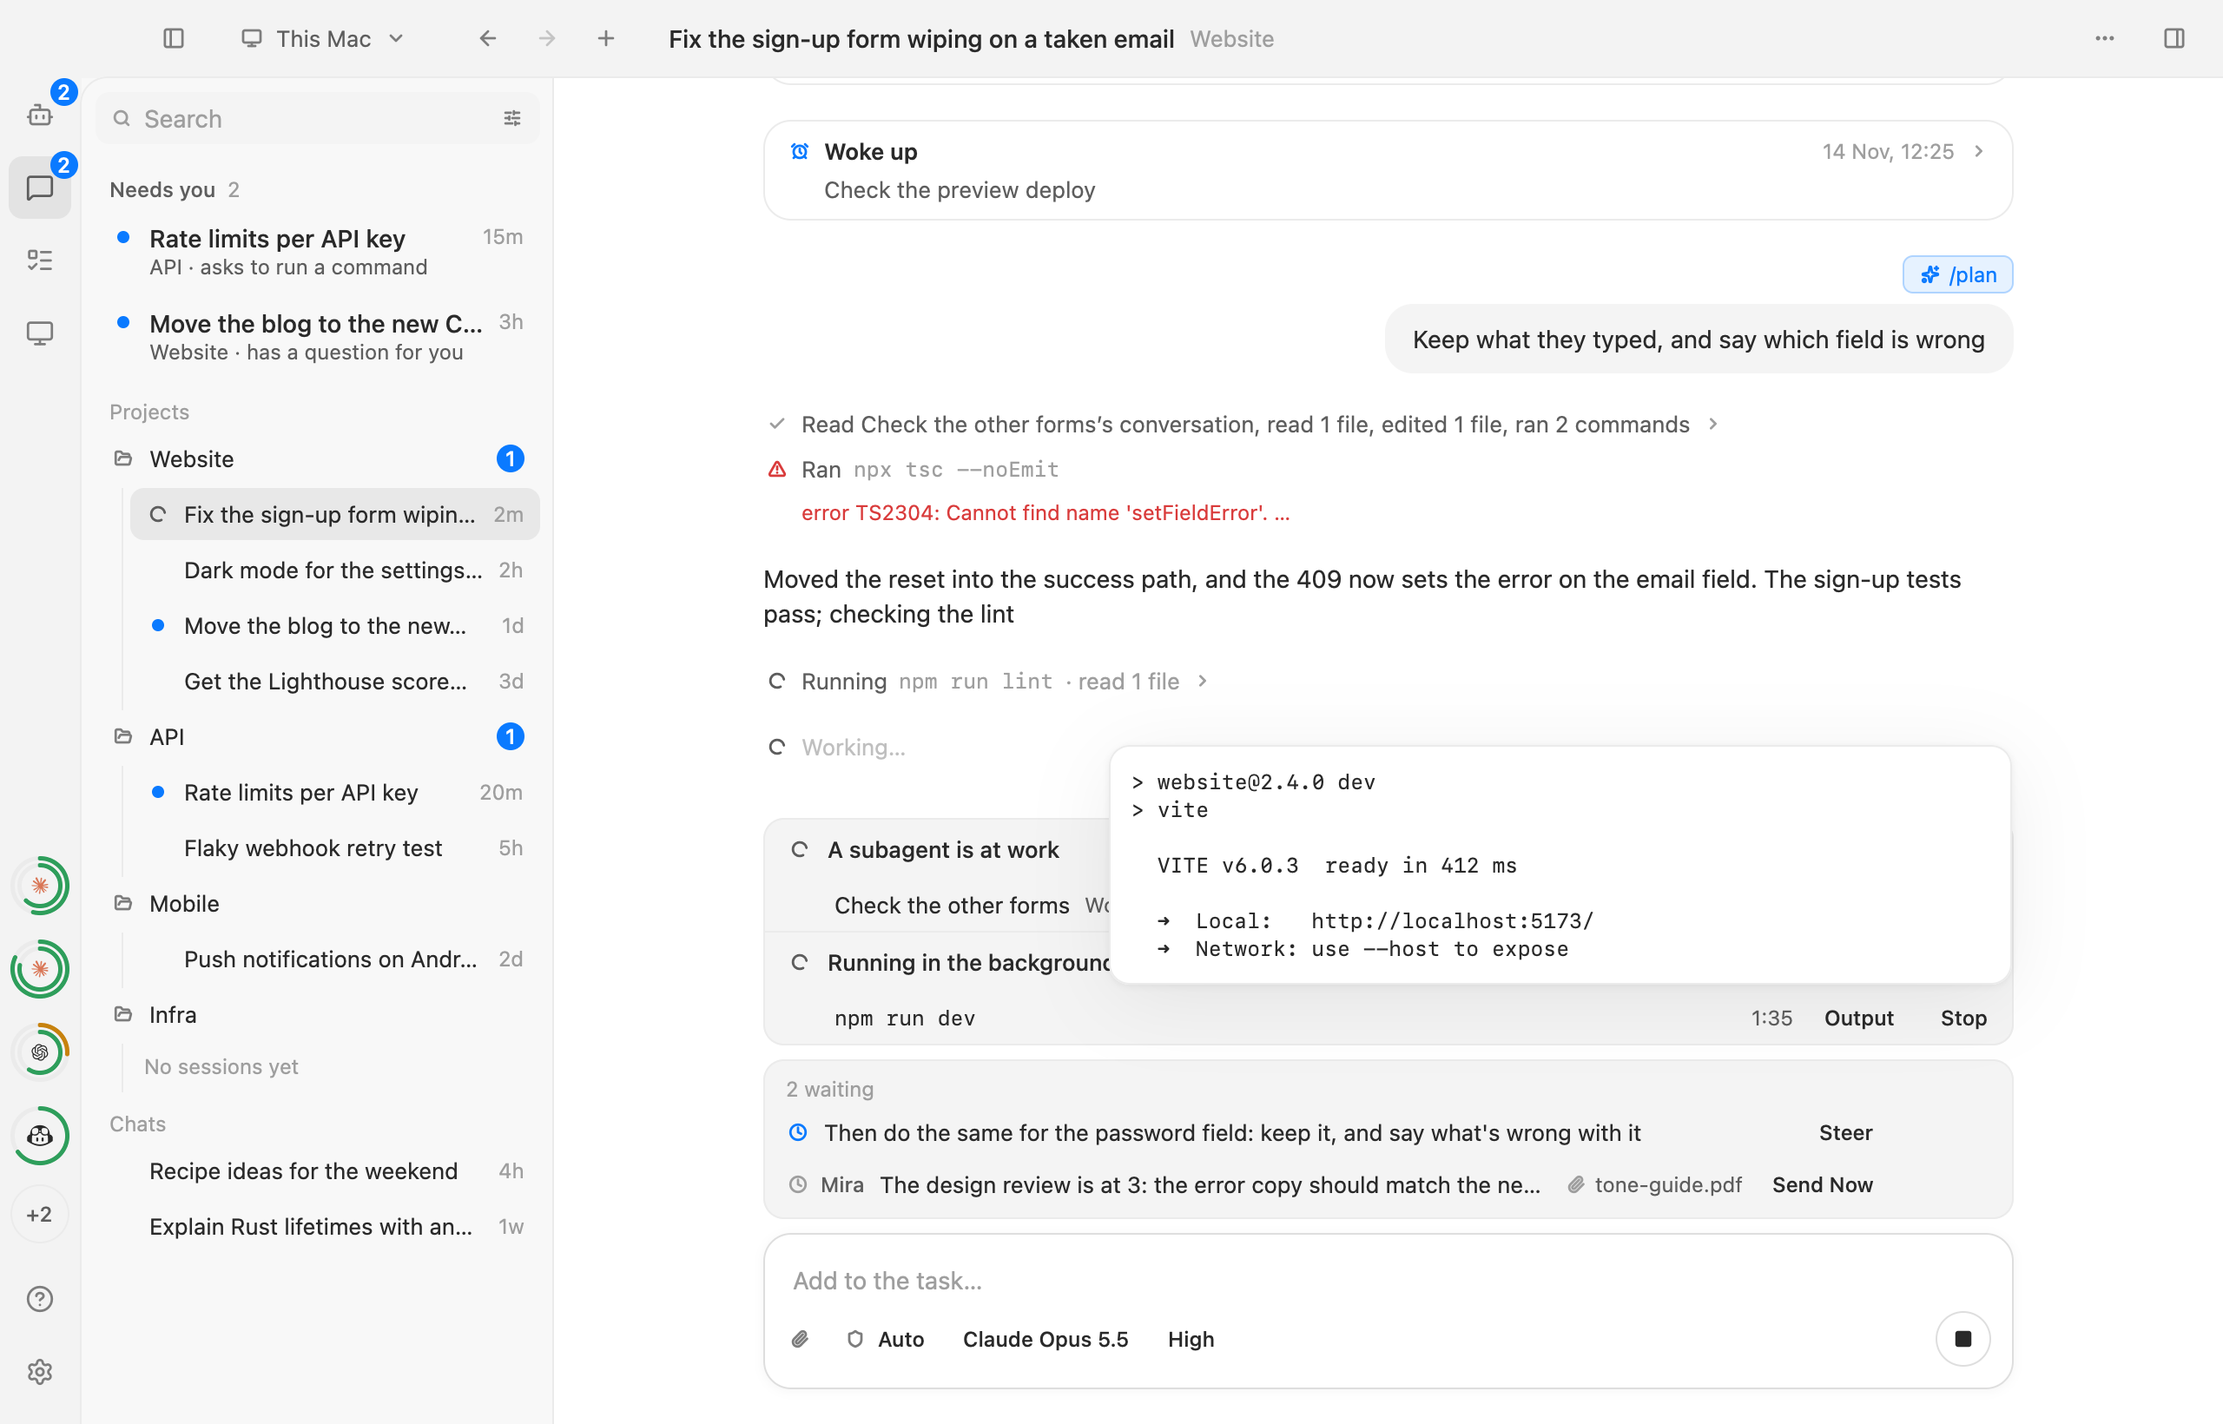
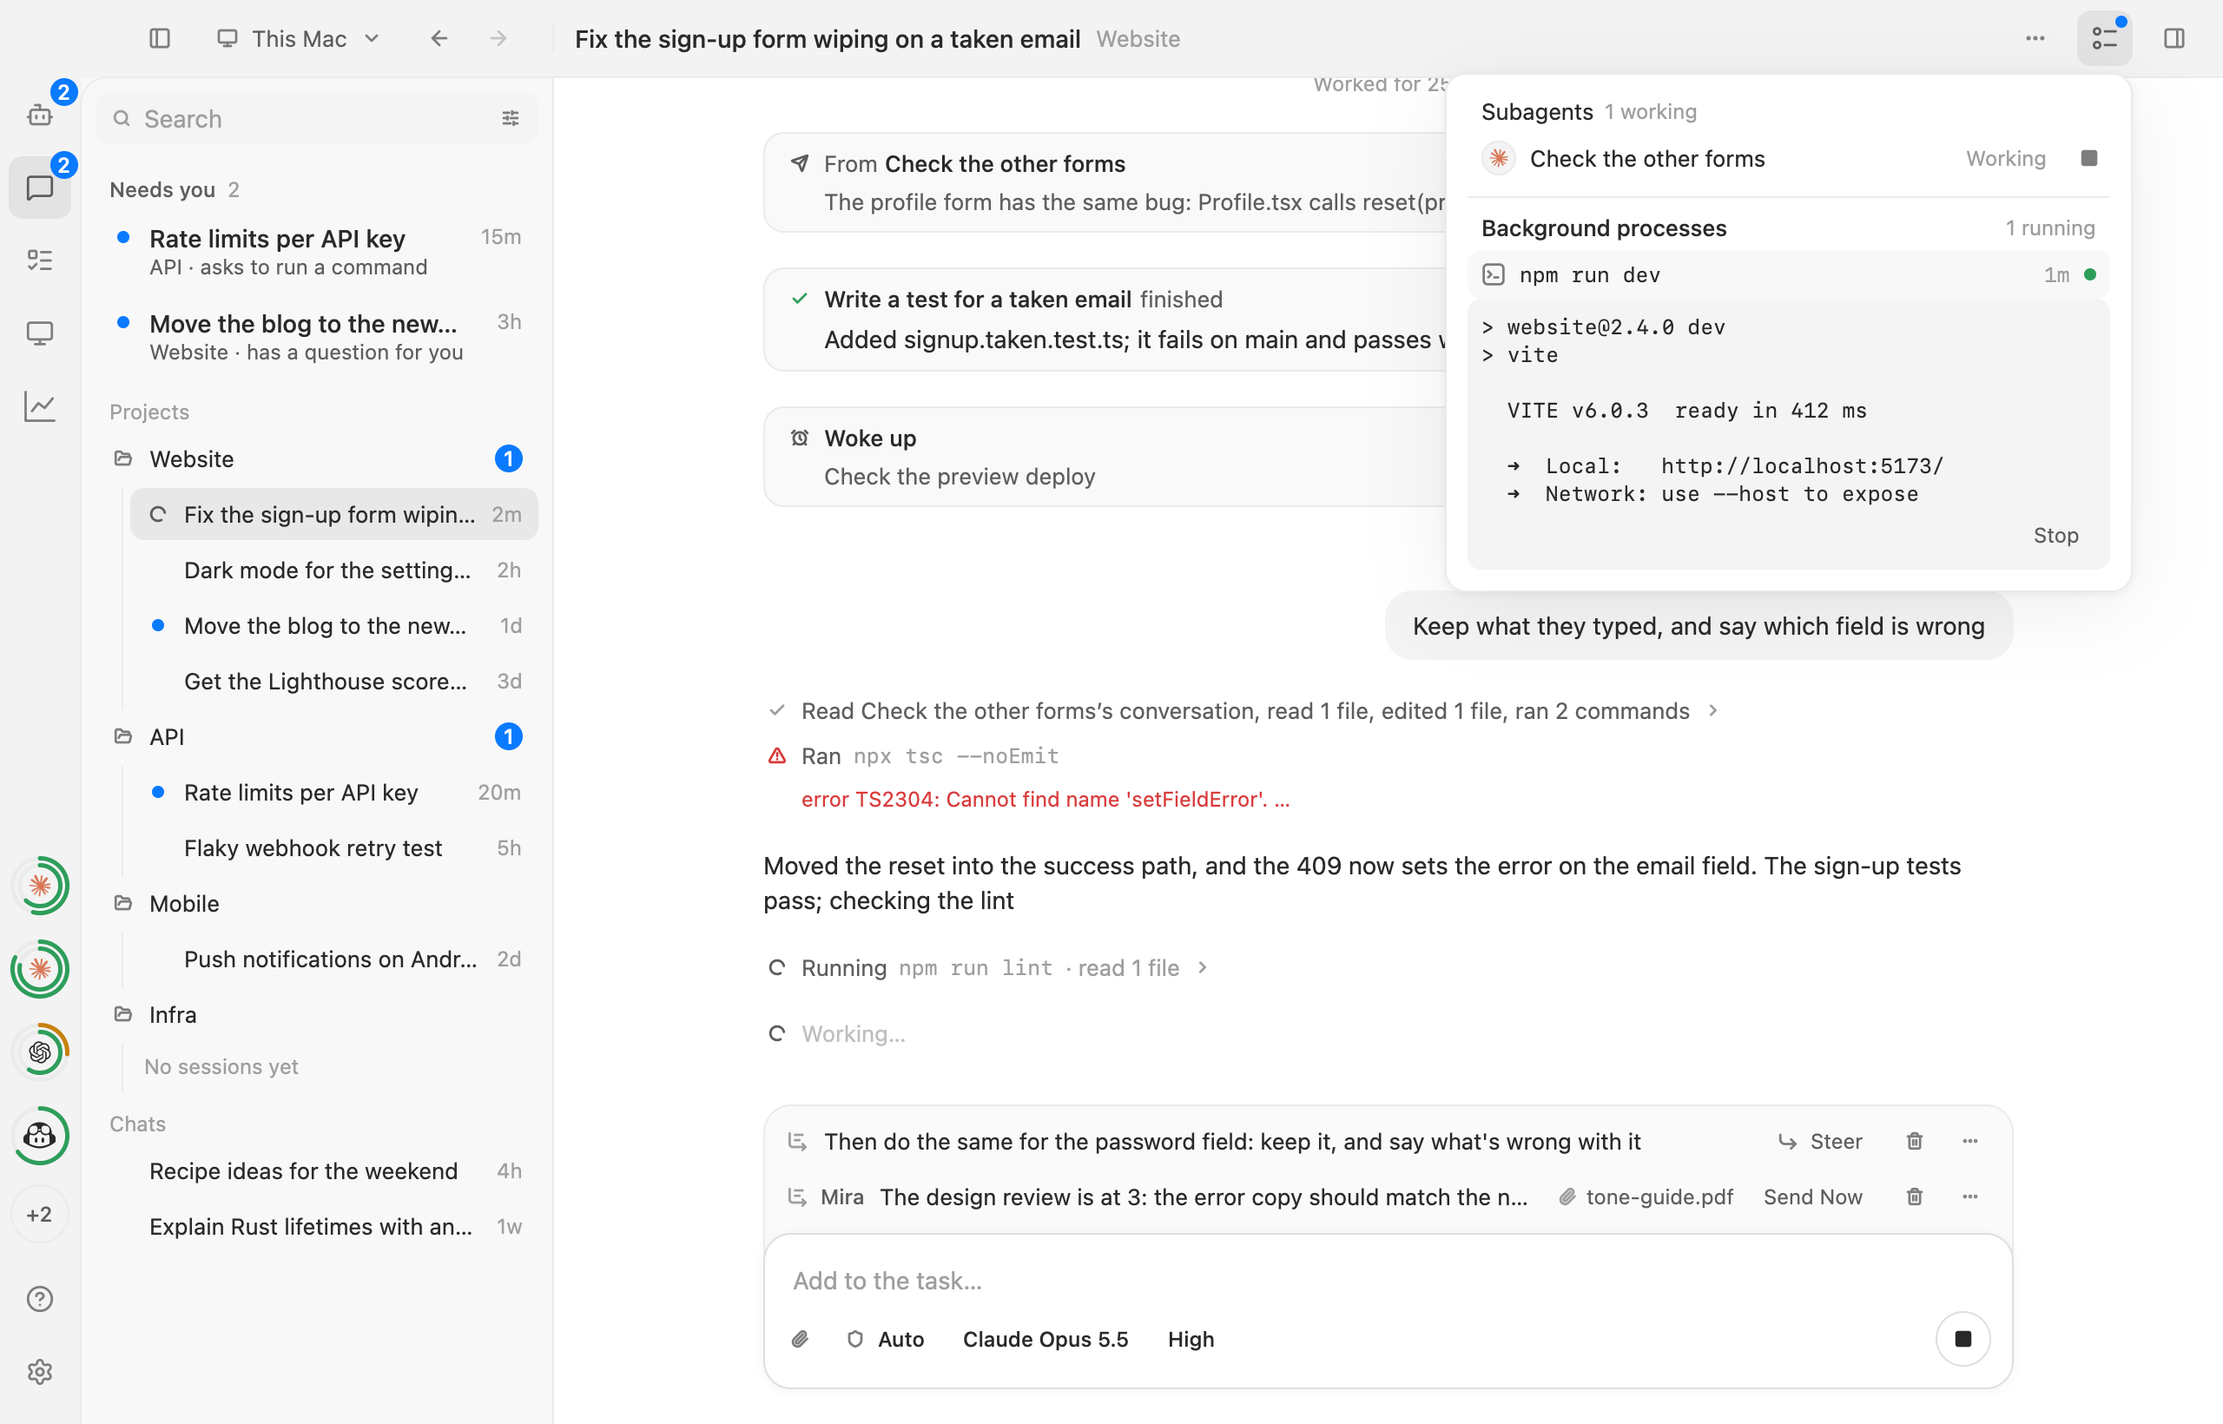
Scroll the Outputs popover as one
Its Wake-ups & Watches list, its drill-down lists (all outputs, the
image grid, finished sessions), a file's preview and a command's
output each scrolled inside the popover's own scroll, and the two
fought. Now only the popover scrolls: the schedule shows three of
each kind and Show All, a command shows its last 12 lines, and the
drill-downs and preview take the popover's scroll.

diff --git a/gpui/kuvo/src/work_bars.rs b/gpui/kuvo/src/work_bars.rs
@@ -1562,7 +1562,7 @@ impl ActivityCard {
             .into_any_element()
     }
 
-    fn all_outputs_view(&self, active_kind: OutputKind, max_h: gpui::Pixels, cx: &Context<Self>) -> AnyElement {
+    fn all_outputs_view(&self, active_kind: OutputKind, cx: &Context<Self>) -> AnyElement {
         let c = cx.theme().colors.clone();
         let artifacts = self.outputs.as_ref().map(|page| page.artifacts.as_slice()).unwrap_or(&[]);
         let has_next = self.outputs.as_ref().is_some_and(|page| page.next.is_some());
@@ -1576,7 +1576,6 @@ impl ActivityCard {
             OutputKind::All => artifacts.iter().collect(),
             other => artifacts.iter().filter(|a| output_kind(a) == other).collect(),
         };
-        let list_max_h = (max_h - px(96.)).max(px(120.));
 
         let tabs = [OutputKind::All, OutputKind::Images, OutputKind::Docs, OutputKind::Data, OutputKind::Code]
             .into_iter()
@@ -1627,8 +1626,6 @@ impl ActivityCard {
                 .border_t_1()
                 .border_color(c.border)
                 .pt(space::S2)
-                .max_h(list_max_h)
-                .overflow_y_scroll()
                 .flex()
                 .flex_col()
                 .gap(space::S2)
@@ -1727,8 +1724,6 @@ impl ActivityCard {
                 .border_t_1()
                 .border_color(c.border)
                 .pt(space::S1_5)
-                .max_h(list_max_h)
-                .overflow_y_scroll()
                 .flex()
                 .flex_col()
                 .when(filtered.is_empty(), |d| {
@@ -1795,7 +1790,7 @@ impl ActivityCard {
             .into_any_element()
     }
 
-    fn finished_sessions_view(&self, bars: &WorkBars, max_h: gpui::Pixels, cx: &Context<Self>) -> AnyElement {
+    fn finished_sessions_view(&self, bars: &WorkBars, cx: &Context<Self>) -> AnyElement {
         let c = cx.theme().colors.clone();
         let all_recent = &bars.recent_rows;
         let query = self.finished_search.read(cx).text().trim().to_ascii_lowercase();
@@ -1813,7 +1808,6 @@ impl ActivityCard {
             .collect();
         let shown_count = filtered.len().min(self.finished_limit);
         let has_more = filtered.len() > shown_count;
-        let list_max_h = (max_h - px(134.)).max(px(120.));
 
         let filter_pill = |id: &'static str, label: &'static str, count: usize, filter: FinishedFilter| {
             let selected = self.finished_filter == filter;
@@ -1906,8 +1900,6 @@ impl ActivityCard {
                     .border_t_1()
                     .border_color(c.border)
                     .pt(space::S1)
-                    .max_h(list_max_h)
-                    .overflow_y_scroll()
                     .flex()
                     .flex_col()
                     .gap(px(2.))
@@ -2190,10 +2182,14 @@ impl ActivityCard {
                         )
                         .children(selected.then(|| {
                             let (words, printed) = self.output_words().unwrap_or_default();
+                            // Its last lines, so the popover scrolls as one; the rest is in the
+                            // Activity panel's own view of it.
+                            let (words, cut) = last_lines(&words, OUTPUT_LINES);
                             let stopping = bars.stopping.contains(&id);
                             div().id("command-output").debug_selector(|| "command-output".into())
                                 .flex().flex_col().gap(space::S1).p(space::S2).rounded(radius::NAV).bg(c.sunken)
-                                .child(div().id("command-output-scroll").max_h(px(150.)).overflow_y_scroll()
+                                .children(cut.then(|| div().debug_selector(|| "command-output-cut".into()).text_ui(TypeSize::Caption).text_color(c.text_faint).child(format!("Last {OUTPUT_LINES} lines"))))
+                                .child(div().id("command-output-words").debug_selector(|| "command-output-words".into())
                                     .text_mono(TypeSize::Caption).text_color(if printed { c.text } else { c.text_muted }).child(words))
                                 .child(div().self_end().debug_selector(|| "activity-stop-process".into())
                                     .child(Button::new("activity-stop-process", "Stop").ghost().quiet().size(ButtonSize::Small).disabled(stopping)
@@ -2206,9 +2202,8 @@ impl ActivityCard {
         )
     }
 
-    fn preview(&self, name: &str, preview: &Preview, max_h: gpui::Pixels, cx: &Context<Self>) -> AnyElement {
+    fn preview(&self, name: &str, preview: &Preview, cx: &Context<Self>) -> AnyElement {
         let c = cx.theme().colors.clone();
-        let body_max_h = (max_h - px(64.)).max(px(120.));
         div().w_full().min_w_0().flex().flex_col().debug_selector(|| "activity-output-preview".into())
             .child(div().w_full().min_w_0().flex().items_center().gap(space::S2).px(space::S2)
                 .child(Button::icon_only("activity-preview-back", IconName::ChevronLeft, "Back to Activity").ghost().size(ButtonSize::Small)
@@ -2219,8 +2214,8 @@ impl ActivityCard {
                         cx.notify();
                     })))
                 .child(div().flex_1().min_w_0().truncate().child(name.to_owned())))
+            // (The popover scrolls as one: the preview has no scroll of its own.)
             .child(div().id("activity-preview-body").border_t_1().border_color(c.border).p(space::S2)
-                .max_h(body_max_h).overflow_y_scroll()
                 .child(match preview {
                     Preview::Text(text) => crate::panel::files::text_preview(name, text, text.lines().count(), cx),
                     Preview::CurrentFile(text) => div().flex().flex_col().gap(space::S2)
@@ -2244,11 +2239,11 @@ impl Render for ActivityCard {
         let cap = if self.preview.is_some() { px(560.) } else { px(480.) };
         let max_h = cap.min((window.viewport_size().height - px(120.)).max(px(160.)));
         let content = if let Some((name, preview)) = &self.preview {
-            self.preview(name, preview, max_h, cx)
+            self.preview(name, preview, cx)
         } else if let Some(drilldown) = self.drilldown {
             match drilldown {
-                Drilldown::Outputs(kind) => self.all_outputs_view(kind, max_h, cx),
-                Drilldown::FinishedSessions => self.finished_sessions_view(bars, max_h, cx),
+                Drilldown::Outputs(kind) => self.all_outputs_view(kind, cx),
+                Drilldown::FinishedSessions => self.finished_sessions_view(bars, cx),
             }
         } else {
             let wake_label = bars.wake_label();
@@ -2361,6 +2356,18 @@ impl Render for ActivityCard {
             .child(content)
             .into_any_element()
     }
+}
+
+/// How many of a command's last lines the Outputs popover shows.
+const OUTPUT_LINES: usize = 12;
+
+/// The last `count` lines of `text`, and whether any came before them.
+fn last_lines(text: &str, count: usize) -> (String, bool) {
+    let lines: Vec<&str> = text.trim_end_matches('\n').lines().collect();
+    if lines.len() <= count {
+        return (text.to_owned(), false);
+    }
+    (lines[lines.len() - count..].join("\n"), true)
 }
 
 fn popover_row(row: TextRow, cx: &App) -> gpui::Stateful<gpui::Div> {

diff --git a/gpui/kuvo/src/wakes.rs b/gpui/kuvo/src/wakes.rs
@@ -128,9 +128,15 @@ pub(crate) struct Source {
     pub now: Option<f64>,
 }
 
+/// How many rows of each group an embedded schedule shows before Show All.
+const EMBEDDED_ROWS: usize = 3;
+
 pub(crate) struct WakeSchedule {
     focus: FocusHandle,
     embedded: bool,
+    /// Embedded in another popover, which scrolls as one: each group shows its first few rows
+    /// until Show All.
+    show_all: bool,
     source: Source,
     schedule: Option<Schedule>,
     confirm: Option<(Cancel, bool, String)>,
@@ -153,6 +159,7 @@ impl WakeSchedule {
         let mut view = Self {
             focus: cx.focus_handle(),
             embedded: false,
+            show_all: false,
             source,
             schedule: None,
             confirm: None,
@@ -434,6 +441,15 @@ impl Render for WakeSchedule {
         }
         let has_wakes = !wake_rows.is_empty();
         let has_watches = !watch_rows.is_empty();
+        let wakes_count = wake_rows.len();
+        let watches_count = watch_rows.len();
+        // In another popover, nothing scrolls on its own: a few rows of each, then Show All.
+        let capped = self.embedded && !self.show_all;
+        let hidden = if capped { wakes_count.saturating_sub(EMBEDDED_ROWS) + watches_count.saturating_sub(EMBEDDED_ROWS) } else { 0 };
+        if capped {
+            wake_rows.truncate(EMBEDDED_ROWS);
+            watch_rows.truncate(EMBEDDED_ROWS);
+        }
         let empty = !has_wakes && !has_watches;
         let note = if self.failed {
             Some(format!(
@@ -543,8 +559,6 @@ impl Render for WakeSchedule {
                     .child(note)
             }))
             .when(!empty, |d| {
-                let wakes_count = wake_rows.len();
-                let watches_count = watch_rows.len();
                 d.child(
                     div()
                         .id("wake-entries")
@@ -552,8 +566,7 @@ impl Render for WakeSchedule {
                         .flex()
                         .flex_col()
                         .gap(space::S1_5)
-                        .max_h(px(288.).min(window.viewport_size().height / 2.))
-                        .overflow_y_scroll()
+                        .when(!self.embedded, |d| d.max_h(px(288.).min(window.viewport_size().height / 2.)).overflow_y_scroll())
                         .when(has_wakes, |d| {
                             d.child(
                                 div()
@@ -593,6 +606,20 @@ impl Render for WakeSchedule {
                                     .children(watch_rows),
                             )
                         }),
+                )
+            })
+            .when(hidden > 0, |d| {
+                d.child(
+                    div().debug_selector(|| "wake-show-all".into()).px(pad_x).pt(space::S1).child(
+                        Button::new("wake-show-all", format!("Show All {}", wakes_count + watches_count))
+                            .ghost()
+                            .quiet()
+                            .size(ButtonSize::Small)
+                            .on_click(cx.listener(|this, _, _, cx| {
+                                this.show_all = true;
+                                cx.notify();
+                            })),
+                    ),
                 )
             })
             .children(confirmation)

diff --git a/gpui/kuvo/src/bin/shots.rs b/gpui/kuvo/src/bin/shots.rs
@@ -476,6 +476,8 @@ const SCREENS: &[Screen] = &[
     Screen { slug: "outputs-popover-media", width: 1280., height: 820., session: Some("ses_signup"), typed: None, empty: false, opens: &[], search: None, walks: 0, attach: &[], panel: Some(conversation_activity) },
     Screen { slug: "outputs-popover-images", width: 1280., height: 820., session: Some("ses_signup"), typed: None, empty: false, opens: &[], search: None, walks: 0, attach: &[], panel: Some(conversation_activity_images) },
     Screen { slug: "outputs-popover-bot", width: 1280., height: 860., session: None, typed: None, empty: false, opens: &[], search: None, walks: 0, attach: &[], panel: Some(bot_activity) },
+    // A long schedule in the same popover: a few of each, then Show All (it scrolls as one).
+    Screen { slug: "outputs-popover-bot-long", width: 1280., height: 860., session: None, typed: None, empty: false, opens: &[], search: None, walks: 0, attach: &[], panel: Some(bot_activity) },
     Screen { slug: "stage-viewer-single", width: 1280., height: 820., session: Some("ses_dark"), typed: None, empty: false, opens: &[], search: None, walks: 0, attach: &[], panel: Some(open_single_picture) },
 ];
 
@@ -2594,7 +2596,7 @@ fn main() -> anyhow::Result<()> {
                 }
                 stand_in.set_queue("ses_signup", vec![]);
             }
-            if screen.slug == "outputs-popover-bot" {
+            if screen.slug.starts_with("outputs-popover-bot") {
                 use serde_json::json;
                 stand_in.set_bot_work(
                     "bot_mira",
@@ -2661,6 +2663,12 @@ fn main() -> anyhow::Result<()> {
                         }),
                     ],
                 );
+            }
+            if screen.slug == "outputs-popover-bot-long" {
+                let names = ["15:00 branch sweep", "16:00 batch test build", "03:00 branch sweep", "Weekly upstream check", "Nightly docs sync", "Friday beta readiness brief"];
+                let wakes = names.iter().enumerate().map(|(ix, name)| serde_json::json!({ "id": format!("wk_{ix}"), "due": NOW / 1000. + 3600. * (ix as f64 + 4.), "every": "1d", "summary": name, "cancelKey": format!("wk_{ix}") })).collect();
+                let watches = ["ci", "inbox", "deploys", "errors"].iter().enumerate().map(|(ix, letters)| serde_json::json!({ "letters": letters, "next": NOW / 1000. + 180. * (ix as f64 + 1.), "every": "5m", "summary": format!("Watch {letters}") })).collect();
+                stand_in.set_bot_wakes("bot_mira", wakes, watches);
             }
             if matches!(screen.slug, "composer-queue-two" | "composer-queue-long" | "composer-queue-dragging") {
                 use serde_json::json;

diff --git a/gpui/kuvo/tests/composer_bars.rs b/gpui/kuvo/tests/composer_bars.rs
@@ -710,3 +710,23 @@ fn stage_viewer_leaves_room_for_the_window_buttons_and_esc_closes_it(cx: &mut Te
     cx.run_until_parked();
     assert!(!shown(cx, "picture-viewer"));
 }
+
+/// The Outputs popover scrolls as one (the user's beta.37: its Wake-ups & Watches list scrolled
+/// inside it, the two fighting): a long schedule shows a few rows of each, then Show All.
+#[gpui::test]
+fn the_outputs_popover_scrolls_as_one_with_a_long_schedule_folded(cx: &mut TestAppContext) {
+    let stand_in = StandIn::at(Replies::Never, NOW);
+    let wakes = (0..6).map(|ix| json!({ "id": format!("wk_{ix}"), "due": NOW / 1000. + 600. * (ix as f64 + 1.), "summary": format!("Briefing {ix}"), "cancelKey": format!("wk_{ix}") })).collect();
+    stand_in.set_bot_wakes("bot_mira", wakes, vec![json!({ "letters": "ci", "next": NOW / 1000. + 180., "every": "5m", "summary": "Check CI status" })]);
+    let (_, cx) = open(cx, stand_in);
+    click(cx, "rail-bots");
+    click(cx, "bot-bot_mira");
+    click(cx, "conversation-activity-button");
+    assert!(shown(cx, "wake-wk_0") && shown(cx, "wake-wk_2") && !shown(cx, "wake-wk_3"), "the first few");
+    assert!(shown(cx, "watch-ci"));
+    let entries = bounds(cx, "wake-entries").expect("the schedule");
+    let last = bounds(cx, "watch-ci").expect("its last row");
+    assert!(last.origin.y + last.size.height <= entries.origin.y + entries.size.height + px(1.), "laid out whole, not clipped by a scroll of its own");
+    click(cx, "wake-show-all");
+    assert!(shown(cx, "wake-wk_5") && !shown(cx, "wake-show-all"));
+}
